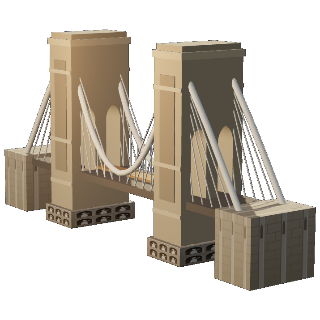
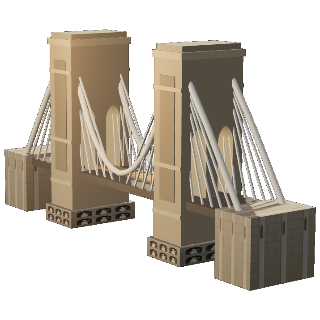
Park pieces at the angle they land, and join the Eye's small parts (device feedback)
Parked pieces were turned to whatever angle framed best, so a parked
piece looked nothing like how it would fit, and the idle sway undid a
tap's quarter-turn on screen. Pieces now park facing the way they land,
so a piece and its outline turn together as the camera pans; a tap's
turn sticks, and the sway is down to ~3 degrees.

Eye: the A-frame (both front legs and the short cross-brace) is one
piece, and the two back stays are one piece, via a new 'group' shape.
Ghost parts share the root's material so a whole outline pulses.
Brooklyn: the stays are thicker and lighter, so the fans read.

diff --git a/src/puzzle/puzzle.js b/src/puzzle/puzzle.js
@@ -1010,6 +1010,9 @@ export function makeBlockMesh(def, isGhost = false, isChild = false) {
 
   switch (def.shape) {
     case 'cyl': geo = new THREE.CylinderGeometry(w / 2, w / 2, h, 24); break;
+    // nothing of its own: a piece made entirely of its adorn parts, such as
+    // the Eye's A-frame (two raked legs and a brace). s still sizes it.
+    case 'group': out = new THREE.Group(); break;
     case 'tier':
       // truncated cone tier: bottom diameter w, top diameter d
       geo = new THREE.CylinderGeometry(Math.max(0.02, d / 2), w / 2, h, 20);
@@ -1349,6 +1352,9 @@ export function makeBlockMesh(def, isGhost = false, isChild = false) {
     if (!out.isGroup) { const g = new THREE.Group(); g.add(out); out = g; }
     for (const a of def.adorn) {
       const child = makeBlockMesh(a, isGhost, true);
+      // a ghost is one outline: its parts share the root's ghost material, so
+      // the whole outline pulses together when its course is live
+      if (isGhost) child.traverse((n) => { if (n.isMesh && !n.userData.isHitProxy) n.material = mat; });
       child.position.set(...a.p);
       child.rotation.set(a.rotX || 0, a.rotY || 0, a.rotZ || 0);
       out.add(child);
@@ -1595,6 +1601,28 @@ export class Puzzle {
     // radius of ~14 world units pieces fall off the sides of the frame and
     // become unreachable, so this packs them dense rather than wide: a piece
     // you can see and tap beats a piece with elbow room you can never reach.
+    // Street 3: some pieces start a quarter-turn out, decided here because
+    // every piece is parked at the angle it would LAND at and the layout needs
+    // to know. Only non-square pieces can look wrong turned. Deterministic,
+    // so the same monument deals the same hand. At most TWO per monument: with
+    // half the non-square pieces turned (the first version), the Louvre's wings
+    // were a pile of pieces all refusing to fit.
+    const turnsOf = new Map();
+    {
+      let turned = 0;
+      this.blocks.forEach(({ def: d }, order) => {
+        if (this.turning && order >= preplaced && turned < 2 && needsTurning(d) && dRand(order, 29) < 0.45) {
+          turnsOf.set(order, 1);
+          turned++;
+        }
+      });
+    }
+    // Parked pieces face the way they will land. A parked piece and its
+    // outline then turn together as the camera pans: lined up means it fits,
+    // a quarter out means tap it. (They used to park at whatever angle framed
+    // best, so how a piece looked parked said nothing about how it would fit
+    // — device feedback: "aligned but dont fit", "not aligned but do fit".)
+    const landYaw = (d, order) => (d.rotY || 0) + (turnsOf.get(order) || 0) * Math.PI / 2;
     const SCATTER_R = 13.2;                       // hard radial cap (<14)
     const XBUD = 11.0;                            // budget for |x| + half the piece's screen width
     let xExt = 0, zExt = 0;
@@ -1650,7 +1678,7 @@ export class Puzzle {
       // the extra distance shrinks them without hiding them behind the (still
       // half-built) monument.
       if (Math.min(w, dp) > 8 || Math.max(w, dp) > 15 || hh > 9) {
-        const yaw = (dp < w ? 1.52 : 0.05) * (back % 2 ? 1 : -1);
+        const yaw = landYaw(x.e.def, x.order);
         const a = -Math.PI / 2 + (back % 2 ? 0.36 : -0.36) + (Math.floor(back / 2) % 2 ? 0.13 : -0.13);
         layout.set(x.order, { a, r: 10.8 + (back % 3) * 0.9, yaw });
         back++;
@@ -1659,8 +1687,7 @@ export class Puzzle {
       // Wide pieces are turned toward the camera so they stop spearing out
       // past the frame edge — but never fully edge-on, or a Louvre wing would
       // read as a blank sliver instead of a wing you can recognise.
-      const yaw = (w > 9 ? 1.30 : w > 5 ? 0.95 : 0.42) * (side > 0 ? -1 : 1)
-        + (dRand(k, 13) - 0.5) * 0.34;
+      const yaw = landYaw(x.e.def, x.order);
       const sw = Math.abs(Math.cos(yaw)) * w + Math.abs(Math.sin(yaw)) * dp;
       let off = OFFS[slot] + band * 0.06 + dRand(k, 11) * 0.05;
       let r = Math.min(SCATTER_R,
@@ -1730,19 +1757,9 @@ export class Puzzle {
     this.timeTotal = Math.round(Math.min(120, Math.max(40, 20 + PER * looseCount)));
     this.time = t0 > 0 ? Math.min(this.timeTotal, t0) : this.timeTotal;
 
-    // Street 3: some pieces start a quarter-turn out. Only pieces whose
-    // footprint is NOT square can look wrong turned, so only they are turned;
-    // deterministic, so the same monument deals the same hand.
-    // At most TWO per monument: with half the non-square pieces turned (the
-    // first version), the Louvre's wings were a pile of pieces all refusing
-    // to fit. One or two is a thing to notice; eight is noise.
-    let turned = 0;
+    // Street 3's quarter-turned pieces were chosen before the layout (turnsOf).
     for (const it of this.items) {
-      it.turns = 0;
-      if (this.turning && !it.placed && turned < 2 && needsTurning(it.def) && dRand(it.order, 29) < 0.45) {
-        it.turns = 1;
-        turned++;
-      }
+      it.turns = it.placed ? 0 : (turnsOf.get(it.order) || 0);
       it.parkPos = it.mesh.position.clone();
     }
     this.lastProgress = 0;                 // for street 3's stuck-for-a-while nudge
@@ -2280,12 +2297,17 @@ export class Puzzle {
     if (!item || item.placed) return;
     if (this.turning && needsTurning(item.def)) {
       item.turns = (item.turns + 1) % 2;
+      // the parked angle is the landing angle, so the turn is kept (the idle
+      // sway used to put it straight back)
       const r0 = item.mesh.rotation.y;
+      item.rotY0 = (item.rotY0 || 0) + Math.PI / 2;
+      item.turningAnim = true;
       let t = 0;
       this.effects.push({
         update: (dt) => {
           t = Math.min(1, t + dt * 5);
-          item.mesh.rotation.y = r0 + (Math.PI / 2) * t;
+          item.mesh.rotation.y = r0 + (item.rotY0 - r0) * t;
+          if (t >= 1) item.turningAnim = false;
           return t < 1;
         },
       });
@@ -2552,7 +2574,9 @@ export class Puzzle {
           Math.abs(Math.sin(this.bobT + it.bobPhase)) * 0.3;
         // sway around the parked yaw rather than spinning freely: a long piece
         // that kept turning would eventually swing out past the frame edge
-        it.mesh.rotation.y = (it.rotY0 || 0) + Math.sin(T * 0.9 + it.bobPhase) * 0.26;
+        // kept small: the parked angle is the landing angle, and a big sway
+        // blurs whether it lines up with its outline
+        if (!it.turningAnim) it.mesh.rotation.y = (it.rotY0 || 0) + Math.sin(T * 0.9 + it.bobPhase) * 0.05;
       }
       // Ghost hint: warm-gold silhouette; the whole live course breathes, the
       // courses still to come stay a faint hint of what is coming.

diff --git a/src/puzzle/landmarks.js b/src/puzzle/landmarks.js
@@ -7,6 +7,7 @@
 //        | 'pod' | 'clock' | 'archvault' | 'prism' | 'spokes' | 'water' | 'cable'
 //        | 'arcseg' | 'colonnade' | 'turrets' | 'statue' | 'rock' | 'arch'
 //        | 'tier' | 'eifleg' | 'chain' | 'walkway'
+//        | 'group' (no mesh of its own: the piece is its adorn parts)
 // tex (canvas texture painted in the block color): 'win' | 'strip' | 'arch'
 //        | 'archcut' | 'gothic' | 'relief' | 'glass' | 'crown' | 'lattice'
 //        | 'ashlar' | 'niche'
@@ -217,11 +218,11 @@ const defs = {
     }),
     // The web: one piece per tower, stays fanning both ways from its top.
     // Both are the same shape, so either fits either tower.
-    ...[-6.2, 6.2].map((x) => B([x, 8.3, 0], [11.6, 9.2, 3.6], '#ddd6c4', 'fan', {
+    ...[-6.2, 6.2].map((x) => B([x, 8.3, 0], [11.6, 9.2, 3.6], '#f2ecdc', 'fan', {
       sortY: 14.5,
-      fan: { ax: 0, ay: 4.4, x0: 0.8, x1: 5.4, deckY: -4.4, n: 6, z: 1.7, r: 0.06 },
-      adorn: [B([0, 0, 0], [11.6, 9.2, 3.6], '#ddd6c4', 'fan',
-        { fan: { ax: 0, ay: 4.4, x0: -0.8, x1: -5.4, deckY: -4.4, n: 6, z: 1.7, r: 0.06 } })],
+      fan: { ax: 0, ay: 4.4, x0: 0.8, x1: 5.4, deckY: -4.4, n: 6, z: 1.7, r: 0.11 },
+      adorn: [B([0, 0, 0], [11.6, 9.2, 3.6], '#f2ecdc', 'fan',
+        { fan: { ax: 0, ay: 4.4, x0: -0.8, x1: -5.4, deckY: -4.4, n: 6, z: 1.7, r: 0.11 } })],
     })),
   ],
 
@@ -409,13 +410,22 @@ const defs = {
   // big readable ovoid capsules mounted outboard of the rim, slow rotation.
   eye: [
     B([0, 0.7, 2.4], [6.4, 0.7, 2.6], '#767f8d'),
-    // A-frame front legs (base splayed wide + forward, meeting at the hub)
-    B([-1.27, 4.1, 1.25], [0.62, 8.9, 0.62], '#f0ece2', 'cyl', { rotZ: -0.3, rotX: -0.25, em: '#ffd9a0', emI: 0.16 }),
-    B([1.27, 4.1, 1.25], [0.62, 8.9, 0.62], '#f0ece2', 'cyl', { rotZ: 0.3, rotX: -0.25, em: '#ffd9a0', emI: 0.16 }),
-    // A-frame cross-brace + rear back-leaning stay struts
-    B([0, 5.6, 1.0], [2.6, 0.24, 0.24], '#e0dcd2', 'box', { rotX: -0.25 }),
-    B([-0.62, 4.15, -1.35], [0.34, 8.6, 0.34], '#c5ccd6', 'cyl', { rotZ: -0.14, rotX: 0.3 }),
-    B([0.62, 4.15, -1.35], [0.34, 8.6, 0.34], '#c5ccd6', 'cyl', { rotZ: 0.14, rotX: 0.3 }),
+    // The A-frame is one piece: both raked front legs and the cross-brace.
+    // The brace on its own was a short thin bar, hard to find and to drop
+    // (device feedback). The two back stays are one piece likewise.
+    B([0, 4.1, 1.25], [3.6, 8.9, 1.4], '#f0ece2', 'group', {
+      adorn: [
+        B([-1.27, 0, 0], [0.62, 8.9, 0.62], '#f0ece2', 'cyl', { rotZ: -0.3, rotX: -0.25, em: '#ffd9a0', emI: 0.16 }),
+        B([1.27, 0, 0], [0.62, 8.9, 0.62], '#f0ece2', 'cyl', { rotZ: 0.3, rotX: -0.25, em: '#ffd9a0', emI: 0.16 }),
+        B([0, 1.5, -0.25], [2.6, 0.24, 0.24], '#e0dcd2', 'box', { rotX: -0.25 }),
+      ],
+    }),
+    B([0, 4.15, -1.35], [1.8, 8.6, 1.2], '#c5ccd6', 'group', {
+      adorn: [
+        B([-0.62, 0, 0], [0.34, 8.6, 0.34], '#c5ccd6', 'cyl', { rotZ: -0.14, rotX: 0.3 }),
+        B([0.62, 0, 0], [0.34, 8.6, 0.34], '#c5ccd6', 'cyl', { rotZ: 0.14, rotX: 0.3 }),
+      ],
+    }),
     // The wheel is ONE piece: rim, gold rim-light ring, spokes and hub.
     // As four separate pieces, each parked at under half size, a thin ring
     // and a bundle of sticks did not read as a wheel (device feedback).
